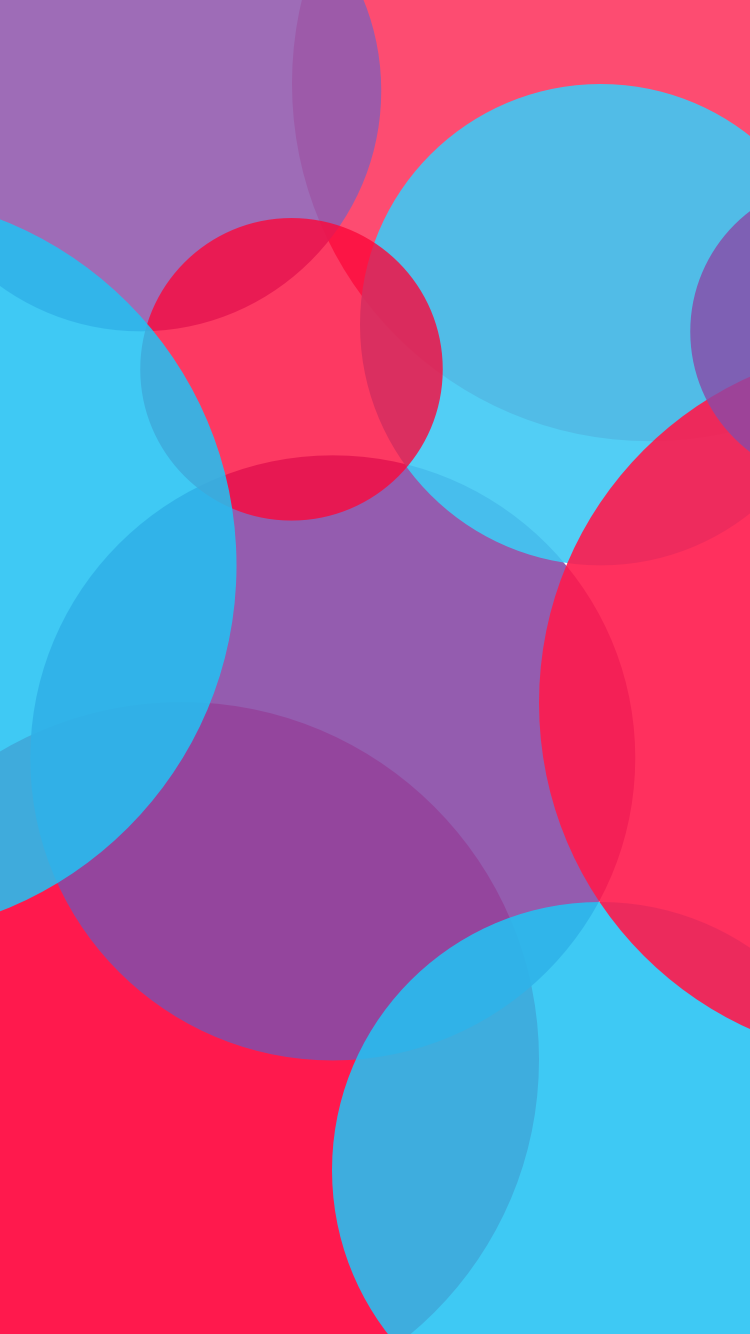
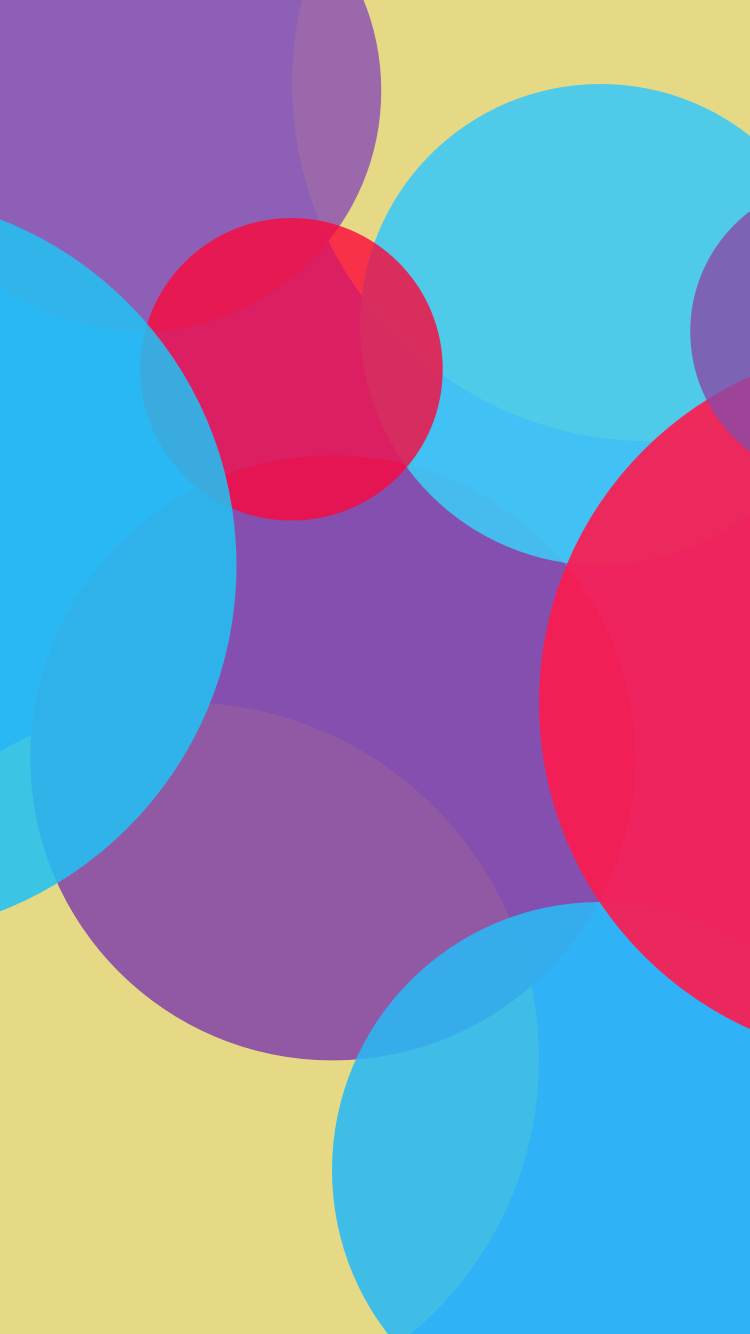
Added alert for when the user clicked the check email button on the successful signup page.  Changed the backdrop photo for the login pages of the app

Changed region(s): [[0.0, 0.5532, 0.5213, 1.0], [0.2147, 0.0, 1.0, 0.3688]]

diff --git a/Components/LoginSignupFlow/LoginSignupFlowAlerts.ios.js b/Components/LoginSignupFlow/LoginSignupFlowAlerts.ios.js
@@ -41,6 +41,10 @@ var LoginSignupFlowAlerts = {
       'Please contact support@youniapp.com with your sign up information and we can help you');
   },
 
+  successfulSignupCheckEmailButton: function() {
+    this._showAlert('What are you waiting for?  Go to your school email to activate your account!')
+  },
+
   _showAlert: function(title, subTitle) {
     AlertIOS.alert(
       title,

diff --git a/Components/LoginSignupFlow/LoginSignupFlow.ios.js b/Components/LoginSignupFlow/LoginSignupFlow.ios.js
@@ -307,7 +307,7 @@ var LoginSignupFlow = React.createClass({
           <View>
             <CentralizedActionButton
               label="Check your .edu email"
-              onPress={()=>null}/>
+              onPress={()=> LoginSignupFlowAlerts.successfulSignupCheckEmailButton()}/>
           </View>
 
           <FlowNavigationFooter
